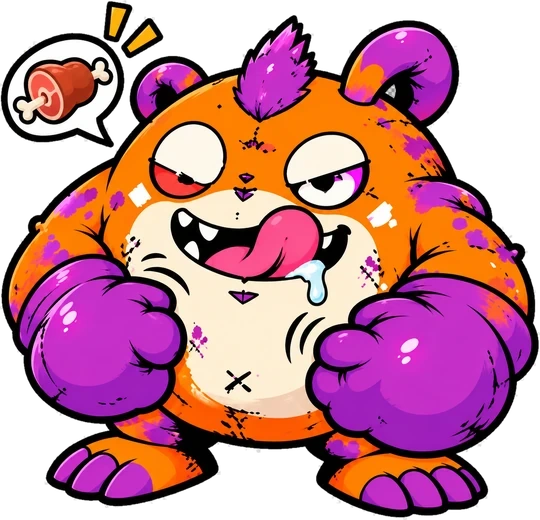
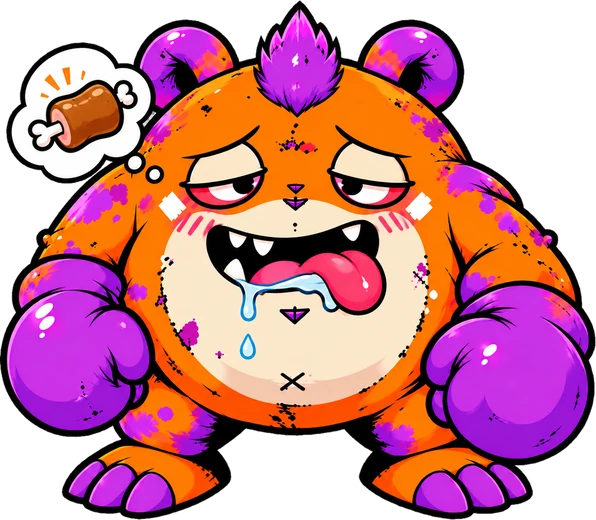
BUNK: new hungry pose (lighter checker background handled)
Claude-Session: https://claude.ai/code/session_01MXithgTc5umkveoyZShZHQ

diff --git a/src/scenes/HomeScene.ts b/src/scenes/HomeScene.ts
@@ -53,7 +53,7 @@ export const BUNK_POSE_IMAGES = {
   sleep: { height: 0.66 },
   stretch: { height: 1.12 },
   look: { height: 0.98 },
-  hungry: { height: 1.02 },
+  hungry: { height: 1.0 },
   sleepy: { height: 1.0 },
 } as const;
 export type BunkPoseImage = keyof typeof BUNK_POSE_IMAGES;

diff --git a/design/bunk/poses/make_poses.py b/design/bunk/poses/make_poses.py
@@ -3,10 +3,11 @@
 絵は描き直さない(背景を消す・縮小するだけ)。
 - 背景が本当に透明な画像は、そのまま使う
 - 背景に「透明を表すチェック柄」が描きこまれている画像は、ふちからつながっている灰色の所(と、体に囲まれた大きな灰色の所)を消す
-使い方: python3 design/bunk/poses/make_poses.py
+使い方: python3 design/bunk/poses/make_poses.py [姿の名前 ...](名前を書いたらその姿だけ作り直す)
 """
 import json
 import os
+import sys
 
 import numpy as np
 from PIL import Image, ImageFilter
@@ -17,6 +18,30 @@ OUT = os.path.join(HERE, '..', '..', '..', 'public', 'assets', 'bunk', 'poses')
 NAMES = ['sit', 'sleep', 'stretch', 'look', 'hungry', 'sleepy']
 # ゲームで使う高さ(px)。お世話画面では小さく出すので十分
 HEIGHT = 520
+
+
+# 2026-10-21 からの新しい絵(チェック柄が明るい灰色と白)。remove_checker_v2 で切り抜く
+NEW_ART = {'hungry'}
+
+
+def remove_checker_v2(im: Image.Image) -> Image.Image:
+    """ふちからつながっている、色のない明るい所(灰色と白のチェック柄)だけを消す。
+    黒い線に囲まれた所(吹き出しの白・歯・目)は消さない。最後に、ちいさな消し残りを消す"""
+    a = np.asarray(im.convert('RGB')).astype(int)
+    sat = a.max(2) - a.min(2)
+    val = a.mean(2)
+    light = (sat < 28) & (val > 110)
+    labels, _ = ndimage.label(light)
+    border = set(np.unique(np.concatenate([labels[0], labels[-1], labels[:, 0], labels[:, -1]]))) - {0}
+    bg = np.isin(labels, list(border))
+    keep = ~bg
+    labels2, _ = ndimage.label(keep)
+    for i, sl in enumerate(ndimage.find_objects(labels2), start=1):
+        if sl is not None and int((labels2[sl] == i).sum()) < 250:
+            keep[sl][labels2[sl] == i] = False
+    out = im.convert('RGBA')
+    out.putalpha(Image.fromarray(np.where(keep, 255, 0).astype(np.uint8)).filter(ImageFilter.GaussianBlur(0.8)))
+    return out
 
 
 def remove_checker(im: Image.Image) -> Image.Image:
@@ -52,15 +77,16 @@ def remove_checker(im: Image.Image) -> Image.Image:
 
 
 os.makedirs(OUT, exist_ok=True)
-info = {}
-for name in NAMES:
+info_path = os.path.join(OUT, 'poses.json')
+info = json.load(open(info_path)) if os.path.exists(info_path) else {}
+for name in sys.argv[1:] or NAMES:
     im = Image.open(os.path.join(HERE, f'{name}.png'))
     has_alpha = im.mode == 'RGBA' and (np.asarray(im)[..., 3] < 10).mean() > 0.1
-    rgba = im.convert('RGBA') if has_alpha else remove_checker(im)
+    rgba = im.convert('RGBA') if has_alpha else remove_checker_v2(im) if name in NEW_ART else remove_checker(im)
     rgba = rgba.crop(rgba.getchannel('A').point(lambda v: 255 if v > 20 else 0).getbbox())
     w = round(rgba.width * HEIGHT / rgba.height)
     rgba.resize((w, HEIGHT), Image.LANCZOS).save(os.path.join(OUT, f'{name}.webp'), quality=90, method=6)
     info[name] = {'w': w, 'h': HEIGHT}
     print(name, 'alpha' if has_alpha else 'checker removed', (w, HEIGHT))
-with open(os.path.join(OUT, 'poses.json'), 'w') as f:
+with open(info_path, 'w') as f:
     json.dump(info, f, indent=2)

diff --git a/design/bunk/README.md b/design/bunk/README.md
@@ -8,7 +8,7 @@
 - 腕を下ろした姿（ふつう）も新しい絵 `reference/bunk_down_v2.png` にした（2026-10-21）。正面を向いているので、顔ではなく足元で位置をそろえた（(14,16) ずらす）。パーツ分けは `reference/pose_down/split.json`（目のパーツも入れて、反転したときの目の位置に使う）。
 - 表情の顔（新しい絵）は `tools/build_bunk_faces_v2.py design/bunk/reference/pose_down/faces_v2.json` で作る。表情の絵は ふつうの絵と少しだけ大きさ・位置がちがうので、線が重なるように合わせてから、ちがう所（顔）だけ切り出す。
   - 2026-10-21：目を閉じた顔（`pose_down/v2_closed.png`）・怒った顔（`v2_angry.png`）・悲しい顔（`v2_sad.png`）・喜んだ顔（`v2_happy.png`）。表情は4つそろった。届いた表情から `faces_v2.json` の faces と `bunkMotion.json` の faces.names に足す。
-  - 新しい表情の顔は腕を下ろした姿（正面）に合わせているので、構えた姿ではまばたきしない。反応の顔を出すときは腕を下ろした姿になる（`facesOnlyDown`）。お世話画面の6つの姿は、とどくまで前の絵のまま。
+  - 新しい表情の顔は腕を下ろした姿（正面）に合わせているので、構えた姿ではまばたきしない。反応の顔を出すときは腕を下ろした姿になる（`facesOnlyDown`）。お世話画面の6つの姿は、とどくまで前の絵のまま。とどいた姿は `design/bunk/poses/<名前>.png` に置いて `python3 design/bunk/poses/make_poses.py <名前>` で作り直す（前の絵は `<名前>_v1.png`）。新しい絵は `NEW_ART` に入れる（明るいチェック柄の消し方）。2026-10-21：おなかすいた（hungry）。
 
 以下は前の絵のときの記録。
 
